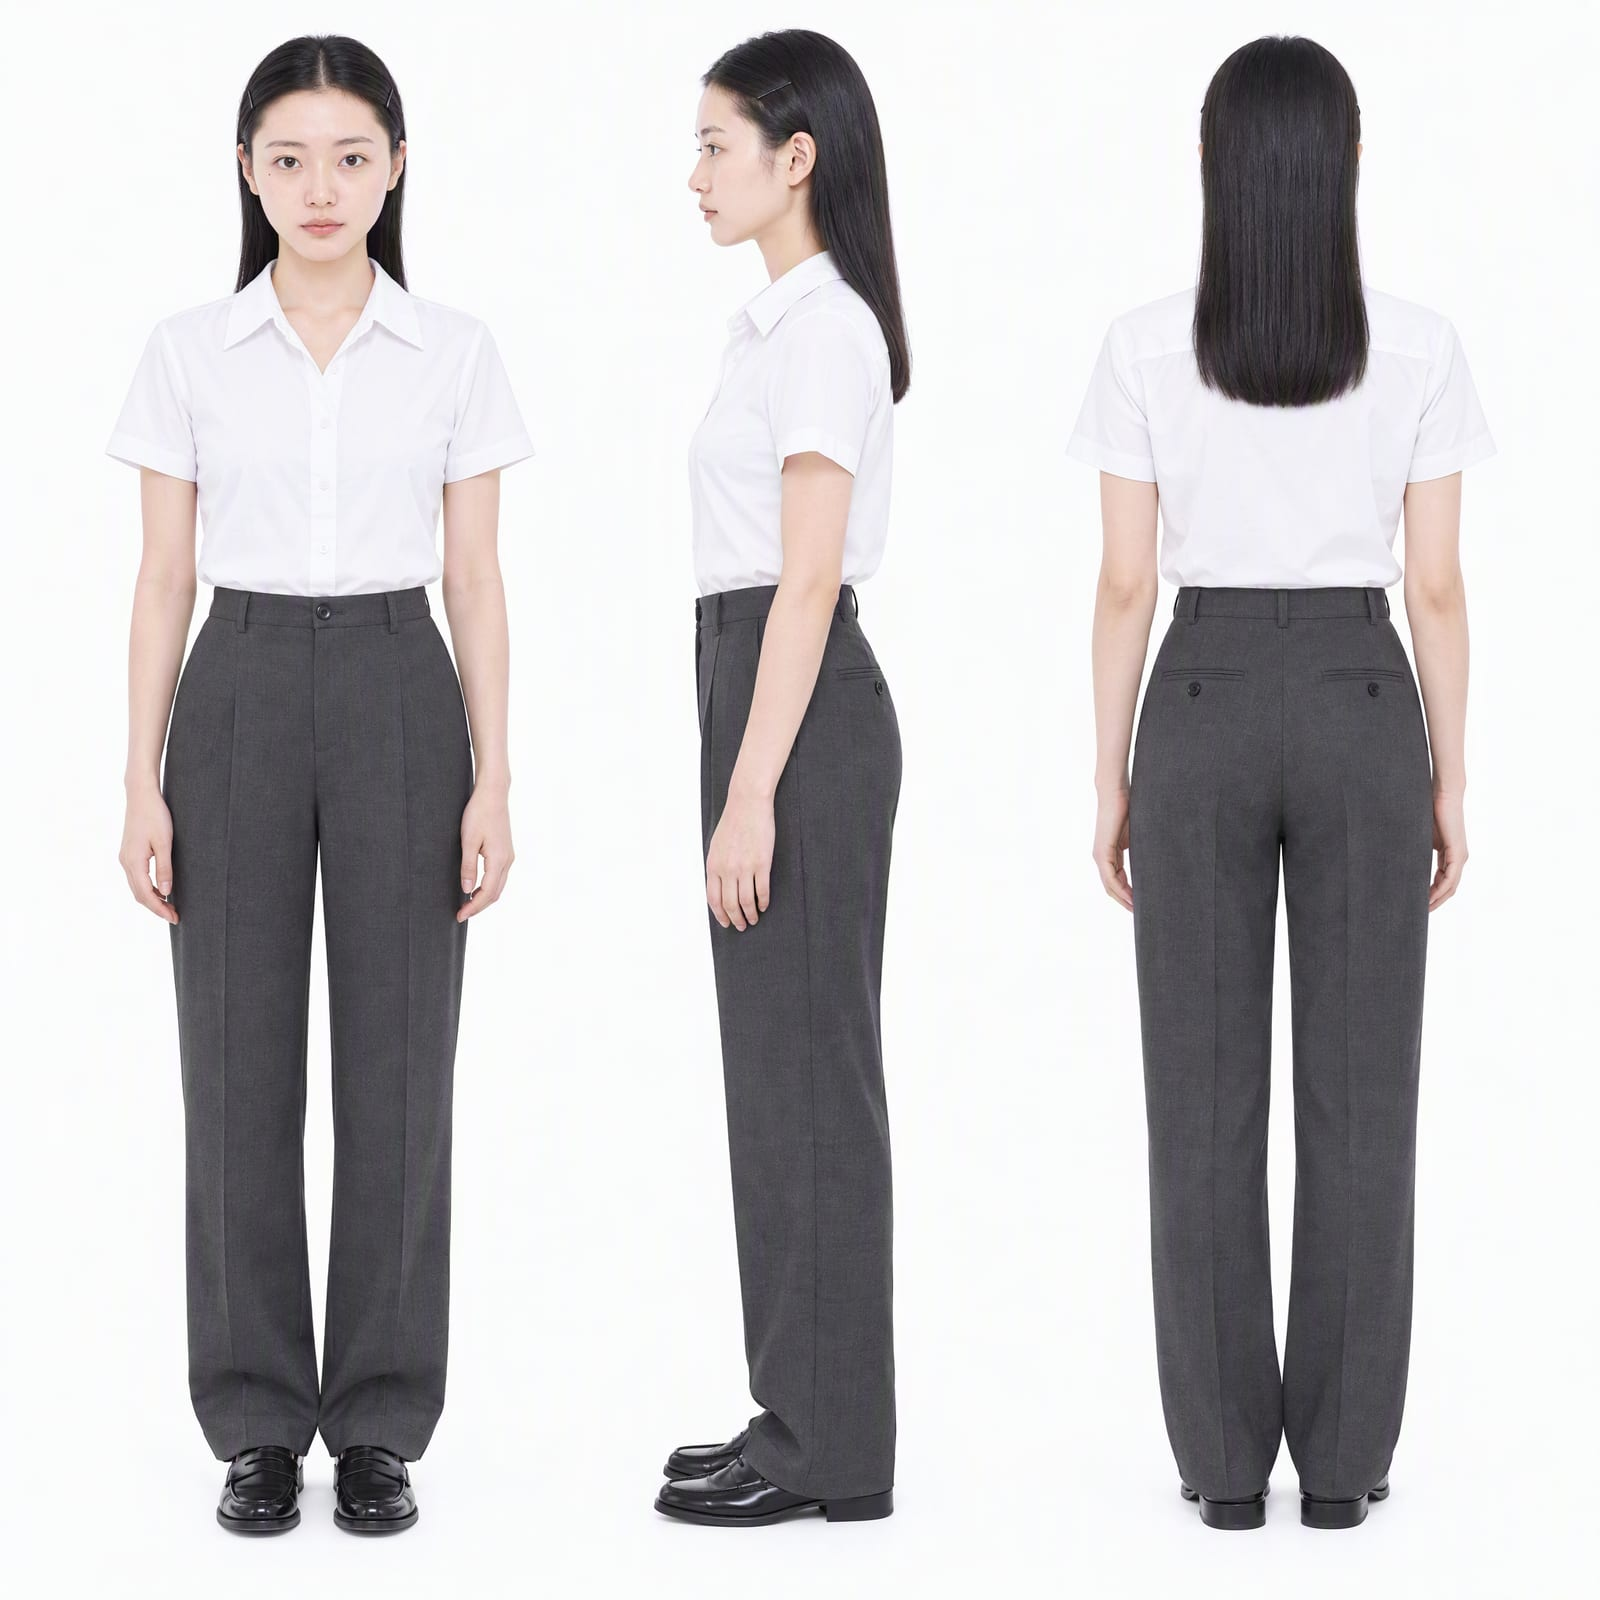
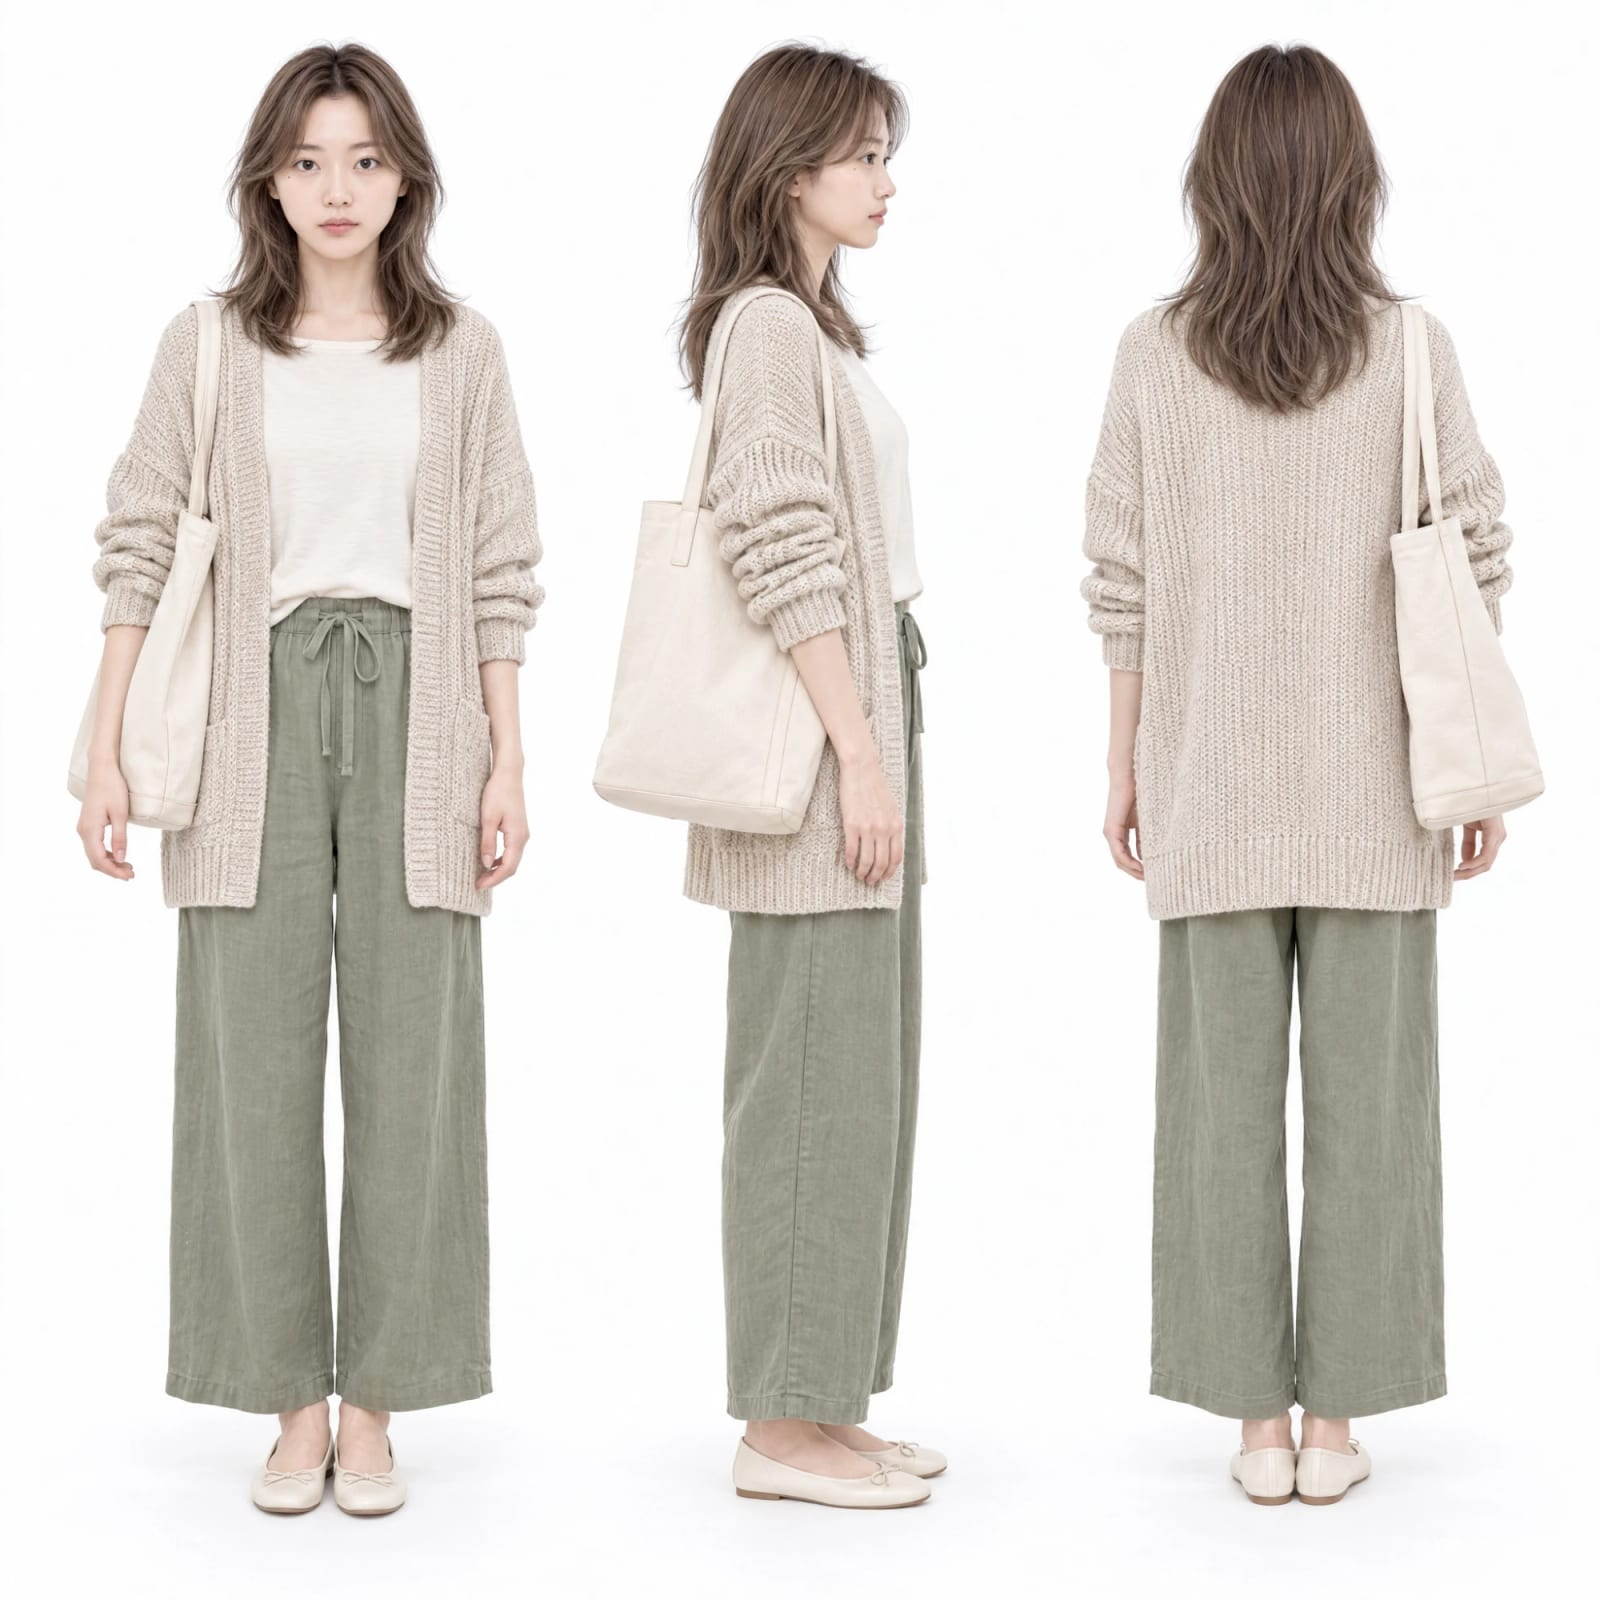
content: update Lin Chia-ying's costume on Tie Clause page
New reference images and matching look text: dossier, S01 entrance, S03 tag.

diff --git a/public/tie-clause/index.html b/public/tie-clause/index.html
@@ -625,7 +625,7 @@ td.name .dot{margin-right:8px;vertical-align:-1px}
           <h3 class="d-name">林佳穎</h3>
           <p class="d-meta">25 歲・2001 年生｜內湖 B2B 軟體公司 PM｜戶籍萬華</p>
           <p class="d-quote">「我沒有藍綠，我看政績。」</p>
-          <div class="look"><p class="h4">外觀鎖定<span class="tag">AI</span></p><p>齊肩黑直髮、白色短袖襯衫紮進深灰色西裝褲、黑色樂福鞋、帆布托特包（裡面有一個掉漆的鐵製鉛筆盒）。</p></div>
+          <div class="look"><p class="h4">外觀鎖定<span class="tag">AI</span></p><p>過肩霧棕色層次長髮（中分）、米白色圓領 T 恤外搭燕麥色粗針織開襟外套、鼠尾草綠亞麻抽繩寬褲、米白色娃娃鞋、米白色帆布托特包（裡面有一個掉漆的鐵製鉛筆盒）。</p></div>
         </div>
       </div>
       <div class="d-grid">
@@ -886,7 +886,7 @@ td.name .dot{margin-right:8px;vertical-align:-1px}
       <section class="scene" id="s01">
         <h3 class="slug"><span class="sn">S01</span><span>內・大同區老公寓・四樓樓梯間・日</span></h3>
         <p class="act">沒有電梯的老公寓。四樓鐵門旁貼著一張手寫的出租紙條。</p>
-        <p class="act">林佳穎（25）爬上最後一階：齊肩黑直髮，白色短袖襯衫紮進深灰色西裝褲，肩上一個帆布托特包。她伸手按門鈴。</p>
+        <p class="act">林佳穎（25）爬上最後一階：過肩霧棕色層次長髮，米白色Ｔ恤外搭燕麥色粗針織開襟外套，鼠尾草綠寬褲，肩上一個帆布托特包。她伸手按門鈴。</p>
         <p class="act">另一根手指同時按上來。周宜蓁（24）：耳下短髮、黑色寬版短袖Ｔ恤。兩根手指疊在同一顆門鈴上。</p>
         <div class="dlg"><p class="cue is-white"><span class="dot"></span>宜蓁</p><p class="ln">……林佳穎？</p></div>
         <div class="dlg"><p class="cue is-blue"><span class="dot"></span>佳穎</p><p class="ln">周宜蓁？妳也來看房？</p></div>
@@ -932,7 +932,7 @@ td.name .dot{margin-right:8px;vertical-align:-1px}
 
       <section class="scene" id="s03">
         <h3 class="slug"><span class="sn">S03</span><span>外・捷運月台／巷口／公車上・黃昏</span></h3>
-        <p class="act">捷運月台。佳穎（齊肩黑直髮、白襯衫、托特包）的手機播出一則語音訊息。</p>
+        <p class="act">捷運月台。佳穎（霧棕色長髮、針織外套、托特包）的手機播出一則語音訊息。</p>
         <div class="dlg"><p class="cue">林爸（畫外音）</p><p class="par">（台語）</p><p class="ln">搬出去嘛好。電視我會關較細聲咧。</p><p class="ln par">（搬出去也好。電視我會轉小聲一點。）</p></div>
         <p class="act">佳穎看著手機，打了一行字。</p>
         <div class="dlg"><p class="cue is-blue"><span class="dot"></span>佳穎（畫外音）</p><p class="ln">不是因為電視啦。</p></div>
